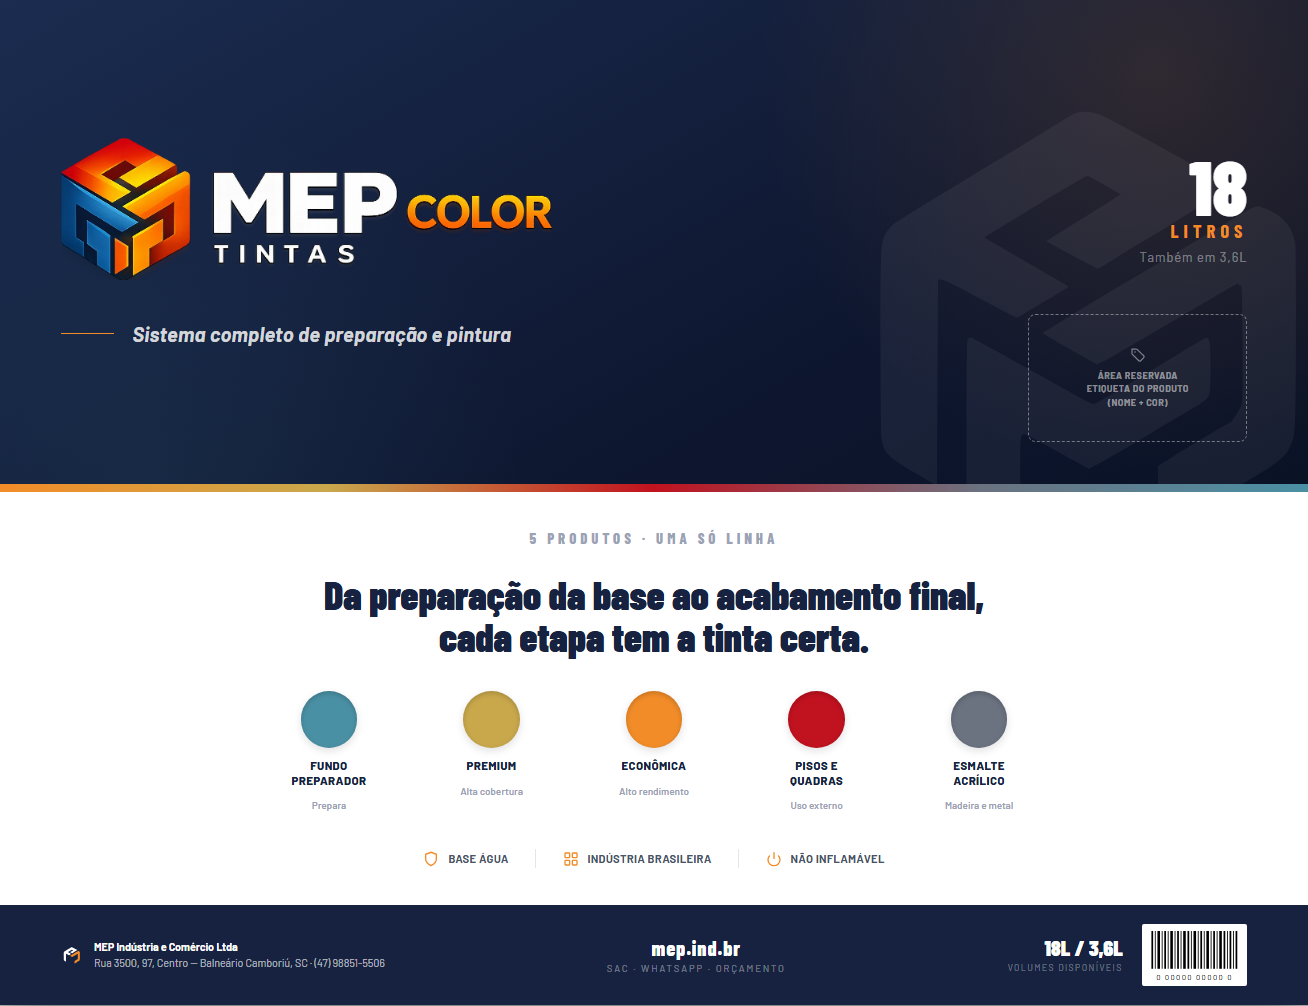
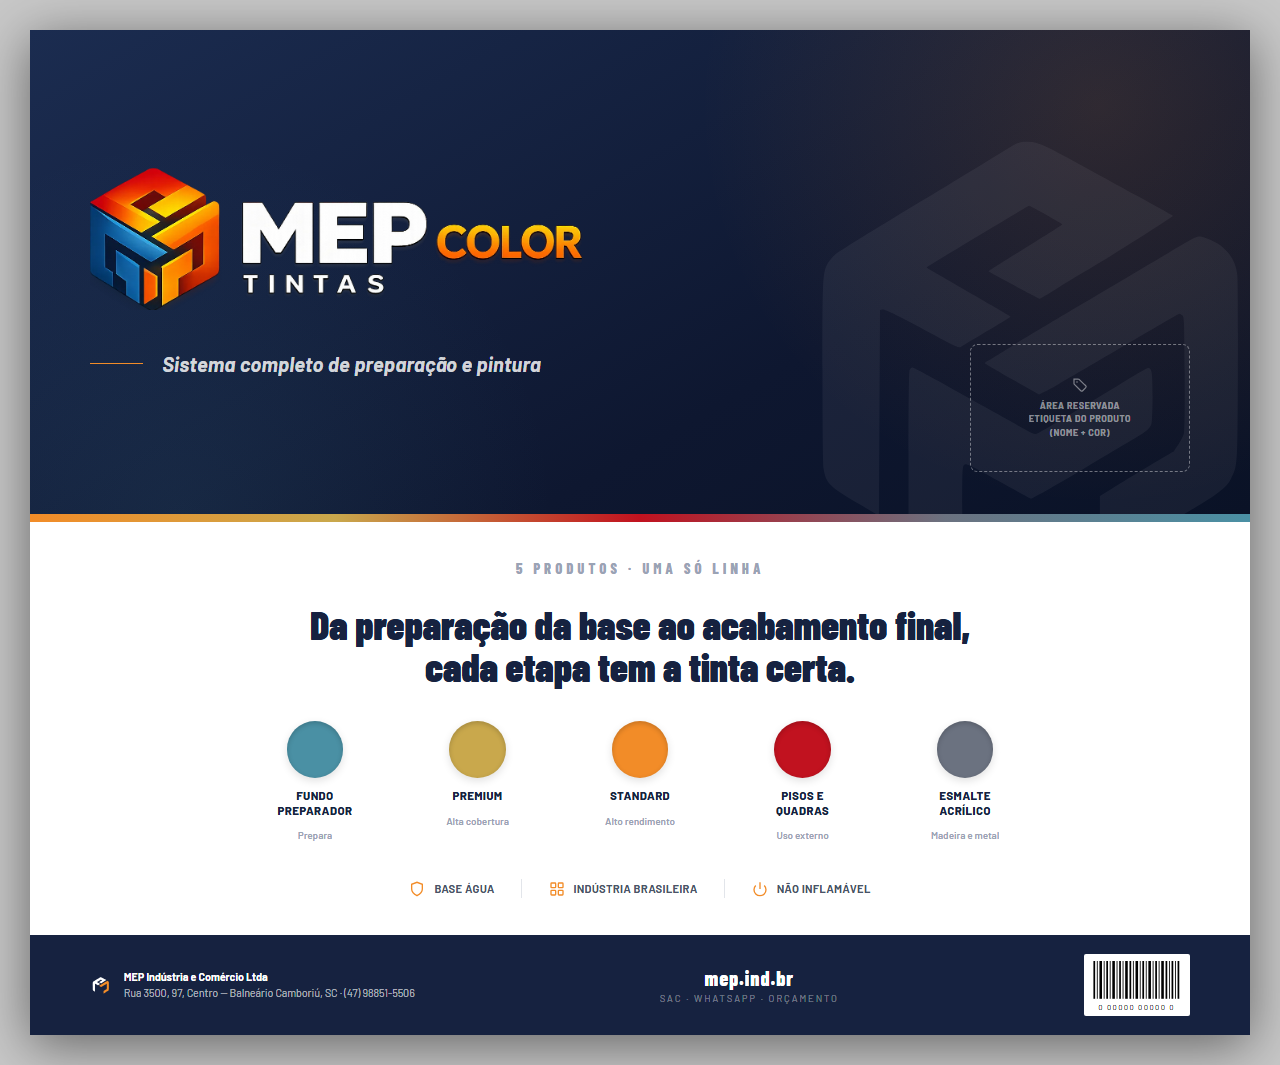
Corrige capa do rotulo MEP COLOR: Economica vira Standard, remove info de litros

diff --git a/marketing/conteudo/rotulo-mep-color-18l-2026-06-27/rotulo-frente-sistema.html b/marketing/conteudo/rotulo-mep-color-18l-2026-06-27/rotulo-frente-sistema.html
@@ -174,12 +174,6 @@ body { margin:0; padding:30px; background:#c8c8c8; display:flex; justify-content
 
     <div class="hero-inner">
       <div class="hero-logo-crop"></div>
-
-      <div class="hero-vol">
-        <div class="hero-vol-num">18</div>
-        <div class="hero-vol-unit">LITROS</div>
-        <div class="hero-vol-alt">Também em 3,6L</div>
-      </div>
     </div>
 
     <div class="hero-tagline">
@@ -213,7 +207,7 @@ body { margin:0; padding:30px; background:#c8c8c8; display:flex; justify-content
       </div>
       <div class="spec-item">
         <div class="spec-swatch" style="background:#F28C28"></div>
-        <div class="spec-label">Econômica</div>
+        <div class="spec-label">Standard</div>
         <div class="spec-sub">Alto rendimento</div>
       </div>
       <div class="spec-item">
@@ -267,10 +261,6 @@ body { margin:0; padding:30px; background:#c8c8c8; display:flex; justify-content
     </div>
 
     <div class="rod-right">
-      <div class="rod-vol">
-        <div class="rod-vol-val">18L / 3,6L</div>
-        <div class="rod-vol-lbl">Volumes disponíveis</div>
-      </div>
       <div class="bc">
         <svg viewBox="0 0 100 44" width="24mm" height="10mm" xmlns="http://www.w3.org/2000/svg">
           <rect x="0"  y="0" width="2"  height="44" fill="#000"/><rect x="4"  y="0" width="1"  height="44" fill="#000"/><rect x="7"  y="0" width="3"  height="44" fill="#000"/><rect x="12" y="0" width="1"  height="44" fill="#000"/><rect x="15" y="0" width="2"  height="44" fill="#000"/><rect x="19" y="0" width="1"  height="44" fill="#000"/><rect x="22" y="0" width="3"  height="44" fill="#000"/><rect x="27" y="0" width="1"  height="44" fill="#000"/><rect x="30" y="0" width="2"  height="44" fill="#000"/><rect x="34" y="0" width="1"  height="44" fill="#000"/><rect x="37" y="0" width="3"  height="44" fill="#000"/><rect x="42" y="0" width="2"  height="44" fill="#000"/><rect x="46" y="0" width="1"  height="44" fill="#000"/><rect x="49" y="0" width="3"  height="44" fill="#000"/><rect x="54" y="0" width="1"  height="44" fill="#000"/><rect x="57" y="0" width="2"  height="44" fill="#000"/><rect x="61" y="0" width="1"  height="44" fill="#000"/><rect x="64" y="0" width="3"  height="44" fill="#000"/><rect x="69" y="0" width="1"  height="44" fill="#000"/><rect x="72" y="0" width="2"  height="44" fill="#000"/><rect x="76" y="0" width="1"  height="44" fill="#000"/><rect x="79" y="0" width="3"  height="44" fill="#000"/><rect x="84" y="0" width="2"  height="44" fill="#000"/><rect x="88" y="0" width="1"  height="44" fill="#000"/><rect x="91" y="0" width="2"  height="44" fill="#000"/><rect x="95" y="0" width="1"  height="44" fill="#000"/><rect x="98" y="0" width="2"  height="44" fill="#000"/>
